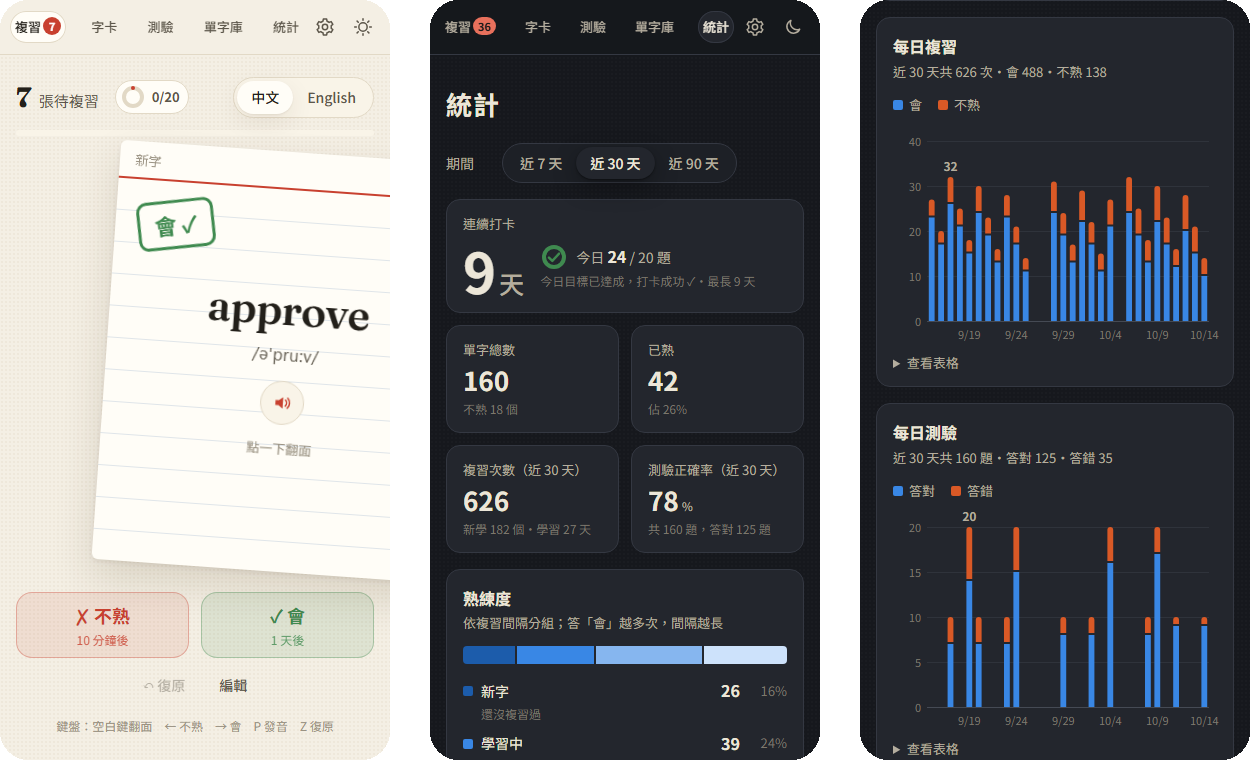
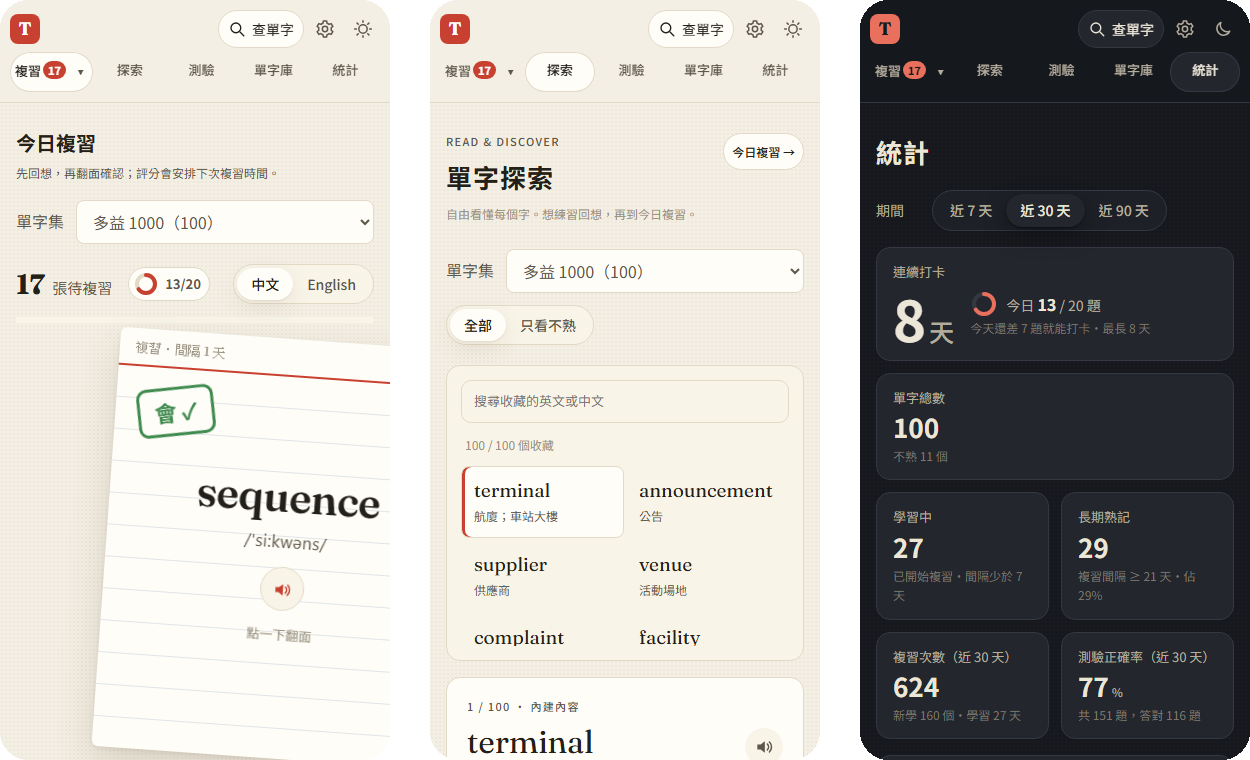
docs: 用新介面重拍 README 展示截圖（統一尺寸、加上單字包、探索、查單字）

diff --git a/tests/capture_readme.py b/tests/capture_readme.py
@@ -1,0 +1,161 @@
+"""產生 README 展示用的截圖（docs/images/readme/）。
+
+用內建「多益 1000 單字包」的真實內容，加上固定的示範學習紀錄，所以每次截圖都一樣，
+也不需要網路或 API 金鑰。所有截圖都用固定的視窗大小（電腦 1000×760、手機 390×760），
+README 裡的圖片才會一樣大。截完再執行 tools/make_readme_images.py 把手機截圖合成一張。
+
+用法（先在專案根目錄執行 python -m http.server 8123 --bind 127.0.0.1）：
+  python tests/capture_readme.py
+  python tools/make_readme_images.py
+"""
+import os
+
+from playwright.sync_api import sync_playwright
+
+ROOT = os.path.dirname(os.path.dirname(os.path.abspath(__file__)))
+OUT = os.path.join(ROOT, 'docs', 'images', 'readme')
+URL = os.environ.get('BASE_URL', 'http://127.0.0.1:8123/')
+DESKTOP = {'width': 1000, 'height': 760}
+PHONE = {'width': 390, 'height': 760}
+os.makedirs(OUT, exist_ok=True)
+
+INIT = """
+if (!localStorage.getItem('toeic-cards:onboarding'))
+  localStorage.setItem('toeic-cards:onboarding', JSON.stringify({ version: 1, status: 'skipped' }));
+if (window.speechSynthesis) speechSynthesis.speak = () => {};
+"""
+
+# 示範學習紀錄：一個月的複習與測驗，部分單字已排入複習（固定數字，每次截圖都一樣）
+SEED = """async () => {
+  const { dayKey, dayStart } = await import('/js/srs.js');
+  const now = Date.now();
+  const start = dayStart(now);
+  const key = (i) => { const d = new Date(start); d.setDate(d.getDate() - i); return dayKey(d.getTime() + 60000); };
+  const log = {};
+  for (let i = 1; i < 30; i++) {
+    if (i === 9 || i === 17 || i === 18) continue;
+    const reviews = 14 + ((i * 7) % 19);
+    const again = Math.round(reviews * (0.28 - i * 0.004));
+    const quiz = i % 3 === 0 ? 10 : i % 5 === 0 ? 20 : 0;
+    log[key(i)] = { reviews, again, good: reviews - again, learned: 6, goal: 20,
+      quiz, quizCorrect: Math.round(quiz * (0.65 + (30 - i) * 0.008)) };
+  }
+  log[key(0)] = { reviews: 12, again: 3, good: 9, learned: 4, goal: 20, quiz: 0, quizCorrect: 0 };
+  const words = JSON.parse(localStorage.getItem('toeic-cards:words'));
+  words.forEach((w, i) => {
+    if (i < 8) return;                                       // 前 8 個字留作今天的新字
+    const iv = [1, 3, 3, 8, 8, 12, 20, 25, 30, 48][i % 10];
+    w.srs = { reps: 2 + (i % 4), interval: iv, ease: 2.5, lapses: i % 7 === 0 ? 1 : 0,
+      due: start + [0, 1, 1, 2, 3, 3, 4, 6, 9, 12][(i * 7) % 10] * 86400e3 };
+    if (i % 9 === 0) w.unfamiliar = true;
+  });
+  localStorage.setItem('toeic-cards:words', JSON.stringify(words));
+  localStorage.setItem('toeic-cards:log', JSON.stringify(log));
+}"""
+
+
+def shot(page, name, **kw):
+    page.evaluate("document.getElementById('toast')?.classList.remove('show')")
+    page.mouse.move(1, 1)
+    page.wait_for_timeout(400)
+    page.screenshot(path=os.path.join(OUT, name), **kw)
+    print('saved', name)
+
+
+def go(page, route):
+    page.goto(URL + '#/' + route)
+    page.wait_for_load_state('networkidle')
+    page.wait_for_timeout(600)
+
+
+with sync_playwright() as p:
+    browser = p.chromium.launch(headless=True)
+    ctx = browser.new_context(viewport=DESKTOP, device_scale_factor=1)
+    ctx.add_init_script(INIT)
+    ctx.route('https://api.dictionaryapi.dev/**', lambda r: r.fulfill(status=404, body='{}'))
+    page = ctx.new_page()
+
+    # ---- 內建單字包：加入第 1 組 ----
+    go(page, 'words')
+    page.click('#openAddWords')
+    page.click('[data-tool=pack]')
+    page.wait_for_selector('#packGroup')
+    page.fill('#packName', '多益 1000')
+    shot(page, 'pack.png')
+    page.click('#packAdd')
+    page.wait_for_timeout(1500)
+    page.click('[aria-label="關閉加入單字"]')
+    page.evaluate(SEED)
+    page.reload()
+    page.wait_for_load_state('networkidle')
+
+    # ---- 單字庫 ----
+    go(page, 'words')
+    shot(page, 'library.png')
+
+    # ---- 今日複習：翻到背面 ----
+    go(page, 'review')
+    page.click('.card-front .headword')
+    page.wait_for_timeout(800)
+    shot(page, 'review.png')
+
+    # ---- 單字探索，再點英文解釋裡的字查詢 ----
+    go(page, 'cards')
+    page.locator('#exploreList li').nth(3).click()
+    page.wait_for_timeout(500)
+    shot(page, 'explore.png')
+    page.locator('#exploreDetail [data-lookup-word=event]').first.click()   # venue 的解釋：the place where an event is held
+    page.wait_for_selector('#lookupResult .lookup-card')
+    page.wait_for_timeout(500)
+    shot(page, 'lookup.png')
+    page.keyboard.press('Escape')
+
+    # ---- 測驗：看中文選英文，故意答錯看說明 ----
+    go(page, 'quiz')
+    page.click('.mode-btn[data-mode=zh2en]')
+    page.wait_for_selector('.option')
+    page.locator('.option').first.click()
+    if page.locator('.feedback.ok').count():
+        page.keyboard.press('Enter')
+        page.wait_for_selector('.option:not([disabled])')
+        page.locator('.option').nth(1).click()
+    shot(page, 'quiz.png')
+
+    # ---- 統計 ----
+    go(page, 'stats')
+    shot(page, 'stats.png')
+
+    # ---- 深色模式：自由翻卡 ----
+    go(page, 'free')
+    page.click('#themeToggle')
+    page.click('.card-front .headword')
+    page.wait_for_timeout(800)
+    shot(page, 'dark.png')
+    page.click('#themeToggle')
+
+    # ---- 手機 ----
+    m = ctx.new_page()
+    m.set_viewport_size(PHONE)
+    go(m, 'review')
+    box = m.locator('#swipe').bounding_box()
+    cx, cy = box['x'] + box['width'] / 2, box['y'] + 120
+    m.mouse.move(cx, cy)
+    m.mouse.down()
+    for i in range(1, 11):
+        m.mouse.move(cx + 9 * i, cy + i)
+    m.wait_for_timeout(300)
+    m.screenshot(path=os.path.join(OUT, 'phone-review.png'))
+    print('saved phone-review.png')
+    for i in range(9, -1, -1):
+        m.mouse.move(cx + 9 * i, cy)
+    m.mouse.up()
+
+    go(m, 'cards')
+    shot(m, 'phone-explore.png')
+    go(m, 'stats')
+    m.click('#themeToggle')
+    shot(m, 'phone-stats.png')
+    m.click('#themeToggle')
+
+    ctx.close()
+    browser.close()

diff --git a/tools/make_readme_images.py b/tools/make_readme_images.py
@@ -1,8 +1,8 @@
-"""產生 README 用的展示圖（統一尺寸）。
+"""把手機截圖合成 README 用的一張展示圖。
 
-- 手機截圖：每張裁成 390×760，三張並排成一張圖，圓角＋透明背景
-  （GitHub 淺色、深色主題都好看）
-- 電腦截圖：高度不一的裁成 1000×760，和其他截圖同樣比例
+先執行 tests/capture_readme.py 產生 docs/images/readme/ 裡的截圖（尺寸已經統一：
+電腦 1000×760、手機 390×760），再執行這支：三張手機截圖並排成 phones.png，
+加上圓角＋透明背景（GitHub 淺色、深色主題都好看）。
 
 用法：python tools/make_readme_images.py
 """
@@ -10,12 +10,8 @@ from pathlib import Path
 
 from PIL import Image, ImageDraw
 
-ROOT = Path(__file__).resolve().parent.parent
-SRC = ROOT / 'docs' / 'images'
-OUT = SRC / 'readme'
-
-PHONE = (390, 760)
-DESKTOP = (1000, 760)
+OUT = Path(__file__).resolve().parent.parent / 'docs' / 'images' / 'readme'
+PHONES = ['phone-review.png', 'phone-explore.png', 'phone-stats.png']
 GAP = 40
 RADIUS = 28
 
@@ -28,30 +24,16 @@ def rounded(im, radius=RADIUS):
     return out
 
 
-def crop(name, top, size):
-    im = Image.open(SRC / name)
-    return im.crop((0, top, size[0], top + size[1]))
-
-
 def phones():
-    shots = [
-        crop('05-swipe-mobile.png', 0, PHONE),     # 滑卡
-        crop('07-stats-mobile.png', 0, PHONE),     # 統計上半：連續打卡、總覽、熟練度
-        crop('07-stats-mobile.png', 893, PHONE),   # 統計下半：每日複習、每日測驗圖表
-    ]
-    w = PHONE[0] * len(shots) + GAP * (len(shots) - 1)
-    sheet = Image.new('RGBA', (w, PHONE[1]), (0, 0, 0, 0))
+    shots = [Image.open(OUT / name) for name in PHONES]
+    w, h = shots[0].size
+    assert all(s.size == (w, h) for s in shots), '手機截圖尺寸要一致'
+    sheet = Image.new('RGBA', (w * len(shots) + GAP * (len(shots) - 1), h), (0, 0, 0, 0))
     for i, s in enumerate(shots):
-        sheet.alpha_composite(rounded(s), (i * (PHONE[0] + GAP), 0))
+        sheet.alpha_composite(rounded(s), (i * (w + GAP), 0))
     sheet.save(OUT / 'phones.png', optimize=True)
 
 
-def desktop():
-    crop('03-batch-preview.png', 0, DESKTOP).save(OUT / 'batch.png', optimize=True)
-
-
 if __name__ == '__main__':
-    OUT.mkdir(exist_ok=True)
     phones()
-    desktop()
-    print('done:', sorted(p.name for p in OUT.iterdir()))
+    print('done: phones.png')

diff --git a/README.md b/README.md
@@ -5,10 +5,16 @@
 
 🔗 **線上使用：<https://kevin930326.github.io/toeic-cards/>**（手機可以「加入主畫面」當 App 用，離線也能複習）
 
-<p>
-  <img src="docs/images/04-card-ai-zh.png" alt="AI 生成的多益單字卡" width="49%">
-  <img src="docs/images/06-part5.png" alt="多益 Part 5 句子填空測驗" width="49%">
-</p>
+<table>
+  <tr>
+    <td width="50%"><img src="docs/images/readme/review.png" alt="今日複習：字卡背面有中文、例句、搭配詞"></td>
+    <td width="50%"><img src="docs/images/readme/explore.png" alt="單字探索：清單＋直接閱讀解釋與例句"></td>
+  </tr>
+  <tr>
+    <td align="center"><sub>今日複習：翻面看中文、例句、搭配詞，每個都能發音</sub></td>
+    <td align="center"><sub>單字探索：不用翻面，直接讀完整內容</sub></td>
+  </tr>
+</table>
 
 ---
 
@@ -42,26 +48,34 @@
 ### 畫面
 
 <p align="center">
-  <img src="docs/images/readme/phones.png" alt="手機畫面：滑卡複習、學習統計（連續打卡、熟練度）、每日複習與測驗圖表" width="100%">
+  <img src="docs/images/readme/phones.png" alt="手機畫面：滑卡複習、單字探索、學習統計（深色模式）" width="100%">
 </p>
-<p align="center"><sub>手機：滑卡複習 ／ 學習統計 ／ 每日複習與測驗圖表（深色模式）</sub></p>
+<p align="center"><sub>手機：滑卡複習 ／ 單字探索 ／ 學習統計（深色模式）</sub></p>
 
 <table>
   <tr>
-    <td width="50%"><img src="docs/images/readme/batch.png" alt="批次新增預覽"></td>
-    <td width="50%"><img src="docs/images/06-listen.png" alt="聽力測驗"></td>
+    <td width="50%"><img src="docs/images/readme/pack.png" alt="加入內建多益 1000 單字包"></td>
+    <td width="50%"><img src="docs/images/readme/lookup.png" alt="點解釋裡的字直接查詢"></td>
   </tr>
   <tr>
-    <td align="center"><sub>批次新增：貼上一整段，自動拆字、去重</sub></td>
-    <td align="center"><sub>聽力測驗：聽發音選意思</sub></td>
+    <td align="center"><sub>內建多益 1000 單字包：每 100 字一組，免金鑰</sub></td>
+    <td align="center"><sub>點解釋或例句裡的字就能查，還能收藏</sub></td>
   </tr>
   <tr>
-    <td width="50%"><img src="docs/images/06-mistakes.png" alt="錯題本"></td>
-    <td width="50%"><img src="docs/images/01-dark-mode.png" alt="深色模式字卡"></td>
+    <td width="50%"><img src="docs/images/readme/library.png" alt="單字庫與單字集"></td>
+    <td width="50%"><img src="docs/images/readme/quiz.png" alt="看中文選英文測驗"></td>
   </tr>
   <tr>
-    <td align="center"><sub>錯題本：答錯的題目可以重做</sub></td>
-    <td align="center"><sub>深色模式</sub></td>
+    <td align="center"><sub>單字庫：用單字集分類，搜尋英文或中文</sub></td>
+    <td align="center"><sub>多益風格測驗：答錯會說明，並加入錯題本</sub></td>
+  </tr>
+  <tr>
+    <td width="50%"><img src="docs/images/readme/stats.png" alt="學習統計"></td>
+    <td width="50%"><img src="docs/images/readme/dark.png" alt="深色模式的自由翻卡"></td>
+  </tr>
+  <tr>
+    <td align="center"><sub>學習統計：連續打卡、學習中、長期熟記</sub></td>
+    <td align="center"><sub>自由翻卡（深色模式）</sub></td>
   </tr>
 </table>
 

diff --git a/tests/README.md b/tests/README.md
@@ -95,7 +95,7 @@ for f in js/*.js js/views/*.js sw.js; do node --check "$f" || echo "語法錯誤
 | `unit/sync.test.mjs` | 同步合併規則：新增／更新／刪除與刪除後修改、重複套用不變、只傳變更、每日紀錄加總、同步設定的範圍、錯題 id 對應 |
 | `unit/quiz.test.mjs` | 出題邏輯：錯誤選項（不含答案、不重複、同詞性優先）、遮住答案字、不熟優先、Part 5 題目驗證 |
 
-`capture_screenshots.py` 用來產生 `docs/images/` 裡的截圖。
+`capture_screenshots.py` 用來產生 `docs/images/` 裡早期開發紀錄用的截圖；README 的展示圖改用 `capture_readme.py`（內建單字包的真實內容、統一尺寸），截完再執行 `python tools/make_readme_images.py` 合成手機圖。
 
 `test_step11.py` 也會驗證單字集的 Firestore 交易合併：兩台裝置同時建立、改名與成員修改互不覆蓋、離線裝置不復活已刪分類，以及其他帳號無法讀取分類。Firebase SDK 和字型快取測試需要連線取得公開檔案；帳號與資料僅寫入 `demo-toeic` 本機模擬器。
 

diff --git a/AGENTS.md b/AGENTS.md
@@ -55,4 +55,4 @@ npx firebase-tools emulators:start --only auth,firestore --project demo-toeic
 - 要安裝軟體、下載檔案前，先問使用者
 - push 前檢查沒有金鑰（`js/firebase-config.js` 裡的 Firebase apiKey 是公開識別碼，可以放）
 - 部署：push 到 `main` 後 GitHub Pages 自動更新（https://kevin930326.github.io/toeic-cards/），說明見 [docs/deploy.md](docs/deploy.md)
-- README 的展示圖用 `python tools/make_readme_images.py` 產生
+- README 的展示圖：先 `python tests/capture_readme.py`（需要 8123 伺服器）再 `python tools/make_readme_images.py`；介面有明顯改變時重拍
